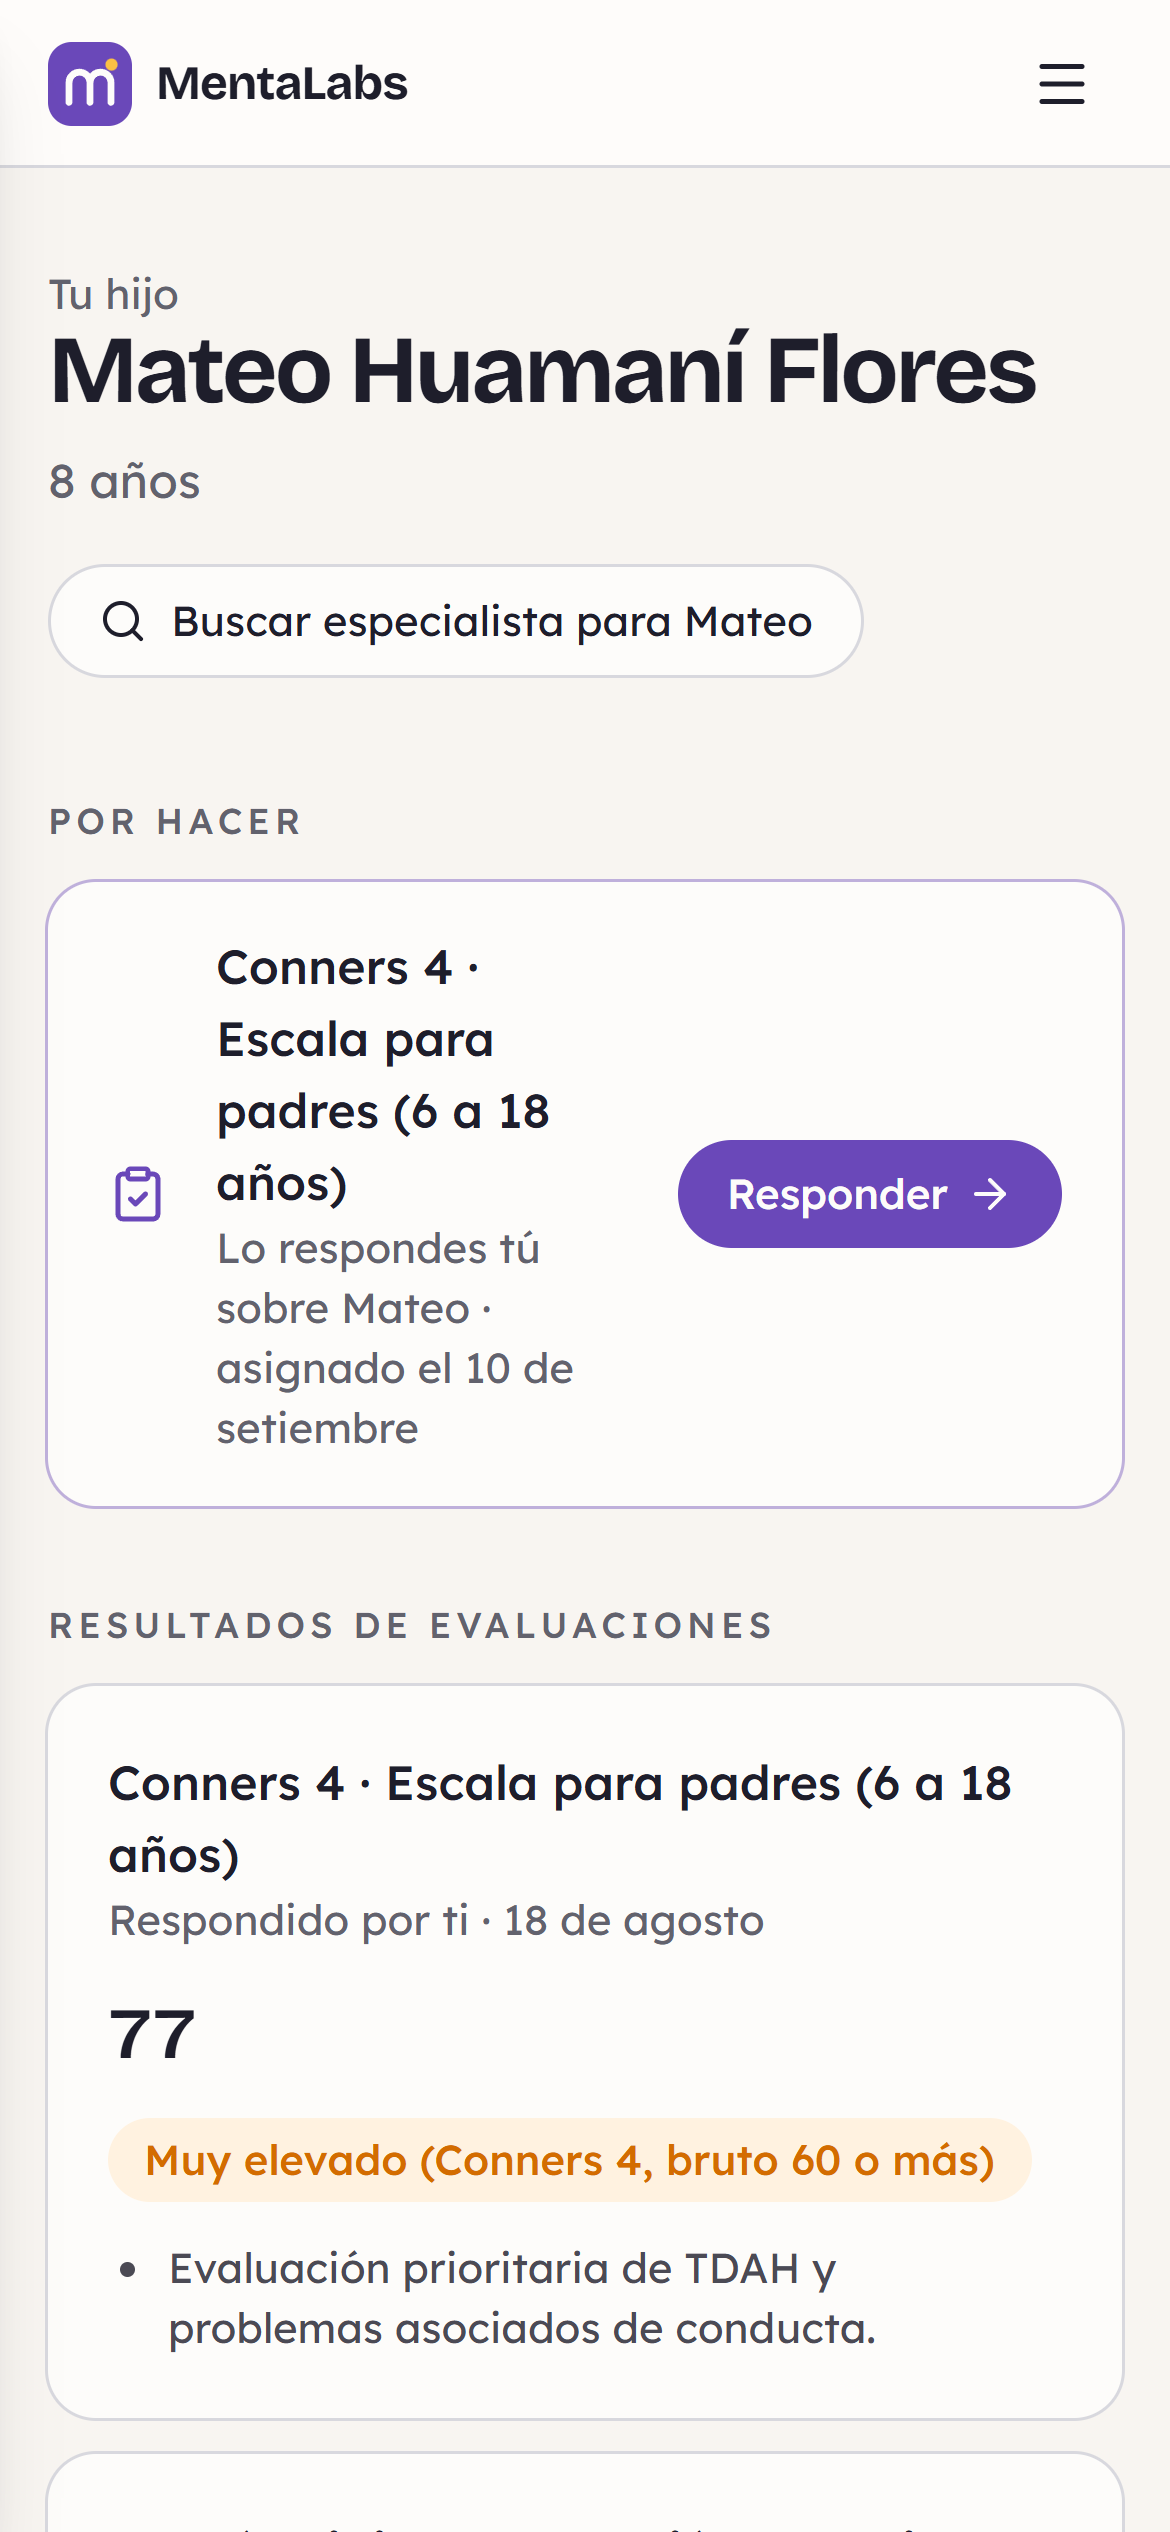
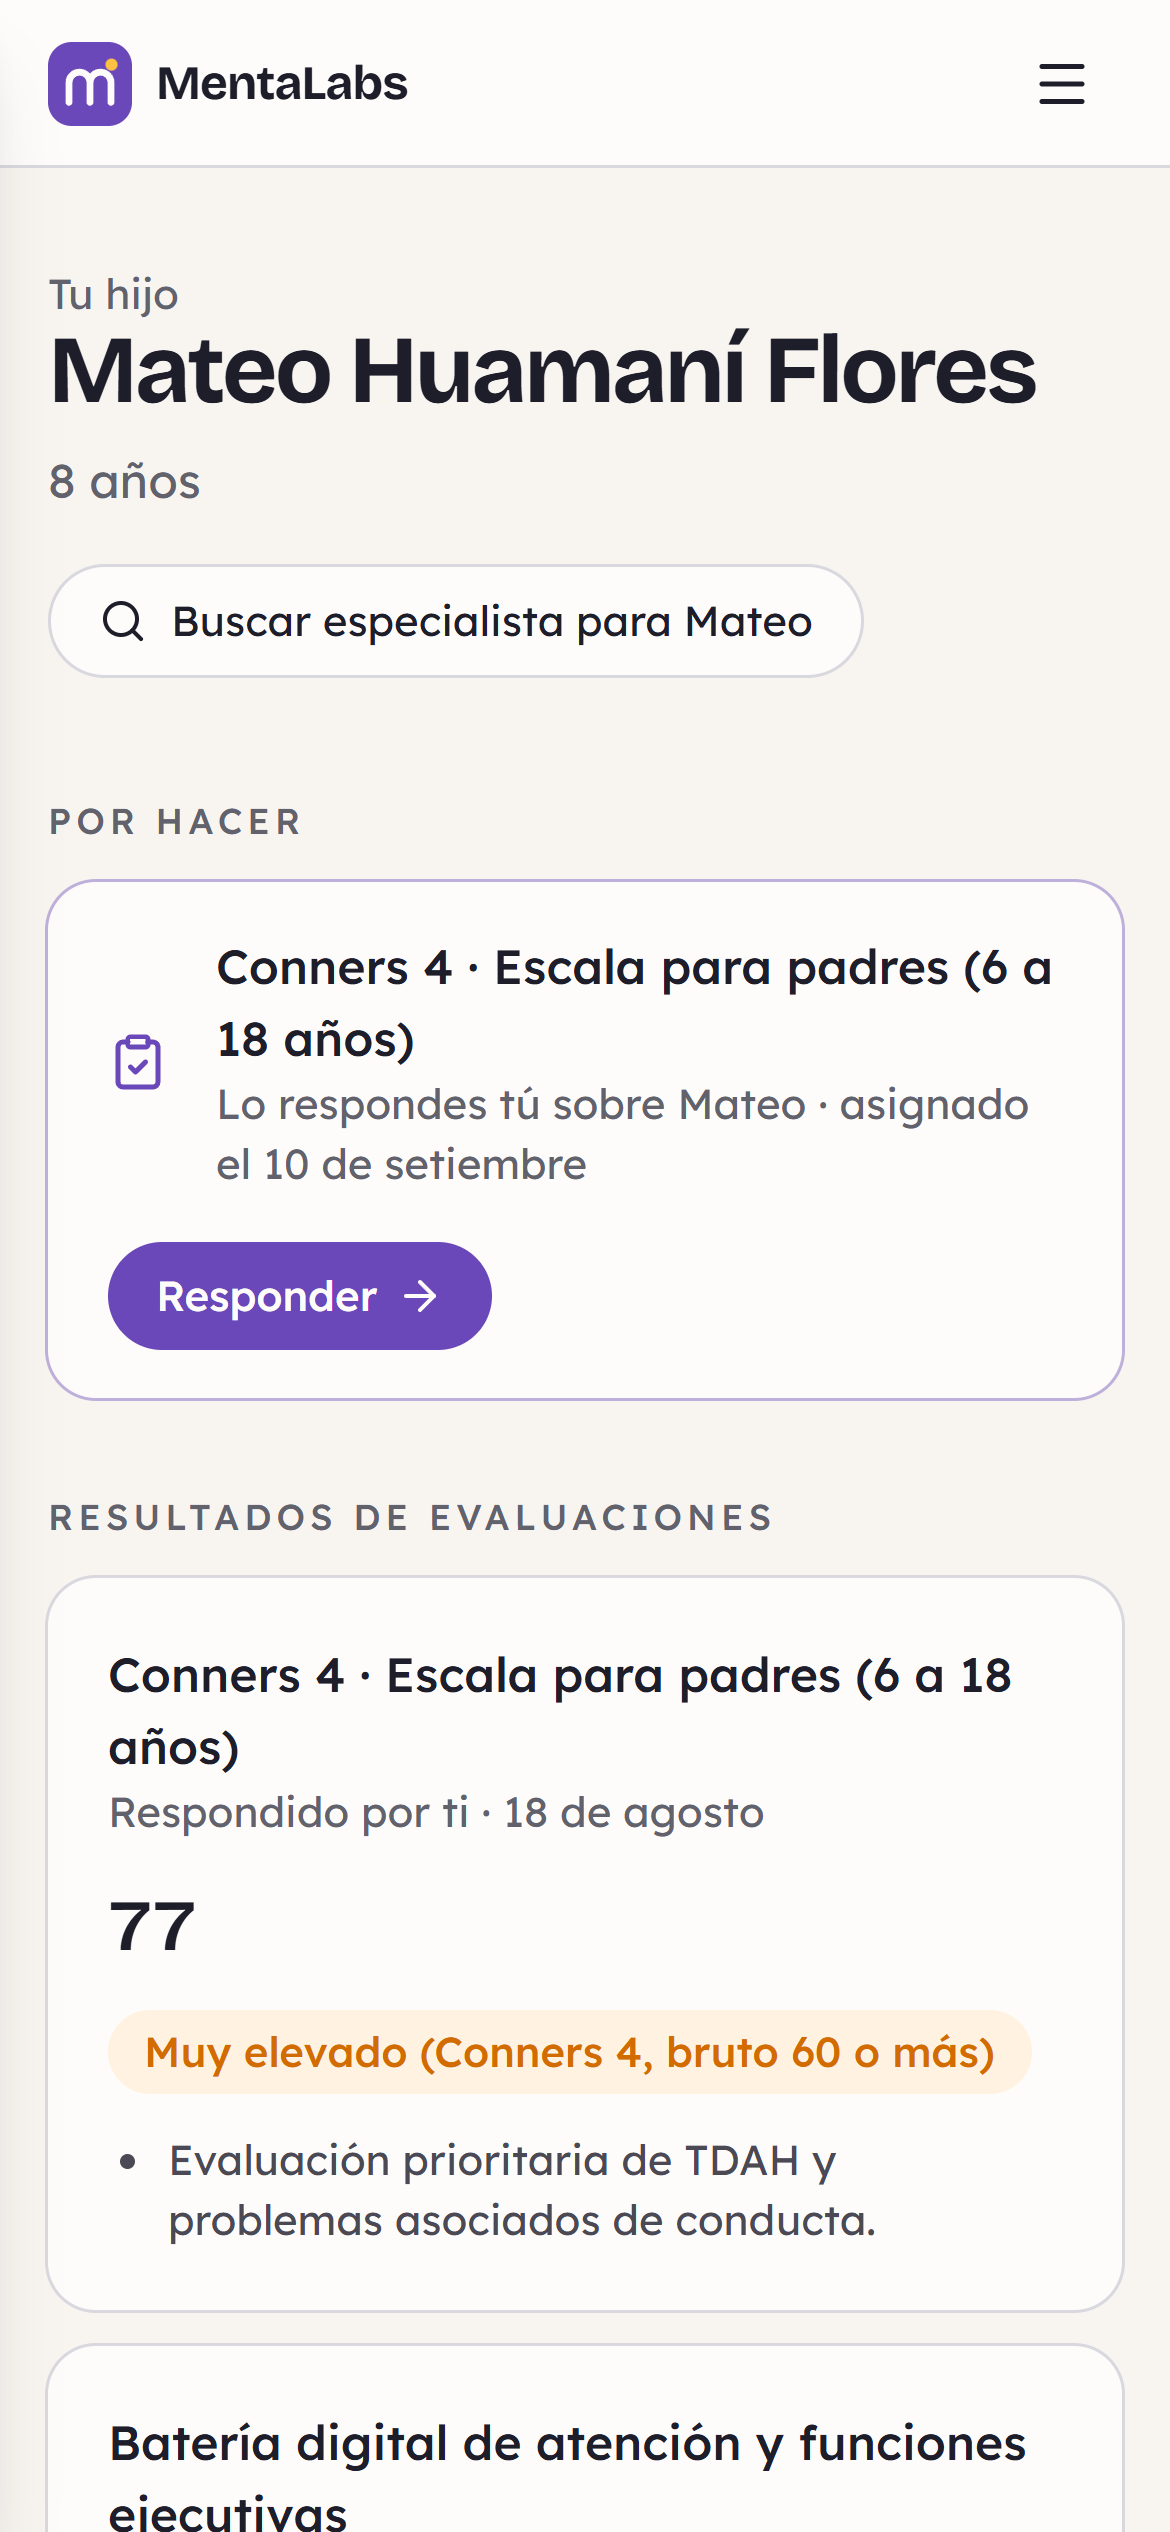
fix(tutor): la tarjeta "Por hacer" no comprime el título en celular
En pantallas angostas el texto tomaba una columna mínima junto al botón
"Responder". Ahora el texto tiene un ancho base y el botón baja a su
propia línea. Se actualiza la captura móvil del storytelling.

Changed region(s): [[0.0308, 0.3744, 0.9231, 1.0], [0.0308, 0.9048, 0.0615, 0.9672], [0.0308, 0.5304, 0.0615, 0.5616]]

diff --git a/src/app/(dashboard)/tutor/page.tsx b/src/app/(dashboard)/tutor/page.tsx
@@ -128,7 +128,7 @@ export default function TutorHomePage() {
                 {todo.map((a) => (
                   <li key={a.id} className="flex flex-wrap items-center gap-4 rounded-2xl bg-surface px-5 py-4 ring-1 ring-brand/40">
                     <ClipboardCheck className="h-5 w-5 text-brand" aria-hidden="true" />
-                    <div className="min-w-0 flex-1">
+                    <div className="min-w-0 flex-1 basis-[220px]">
                       <p className="font-medium">{a.title}</p>
                       <p className="text-sm text-muted">
                         {a.meta.kind === "games" ? `Para que juegue ${name} (unos 15 min)` : `Lo respondes tú sobre ${name}`} · asignado el {formatDateLima(a.assigned_at)}
